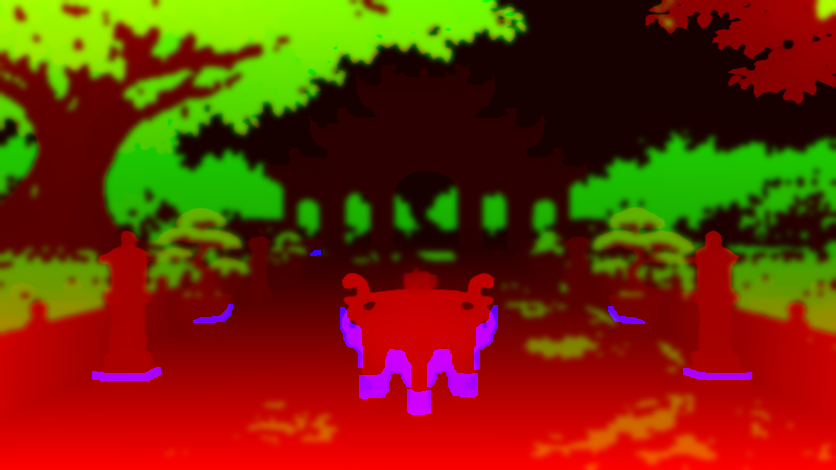
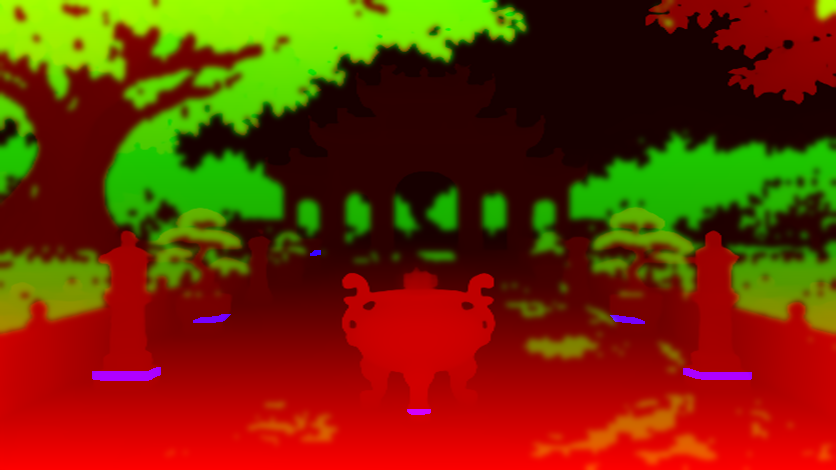
Đi lại không vướng sau lư/đèn; biệt danh vui cho Phật tử ảo; mặt sau hiện tên, người đi lại, niệm Phật
- Mặt nạ chặn (kênh B của assets/sau/*.png) chỉ còn dấu chân đế của vật, bỏ thân/quai lư và đốm lẻ
- Đi ngang gặp vật thì tự lách lên/xuống; chân lư Cửa điện khớp ảnh
- Tên Phật tử ảo, hàng đầu và người trò chuyện đổi thành biệt danh vui
- Mặt sau vẽ mọi người trong điện (ngồi, đứng, đang đi), thẻ tên, câu niệm Phật bay lên; tốp ra vào điện dày hơn

Claude-Session: https://claude.ai/code/session_0165dYwuGLCeQUJKj4YibH94

diff --git a/chua.js b/chua.js
@@ -40,12 +40,12 @@
       vases: [{ stand: [455, 680], at: [455, 708] }, { stand: [1213, 680], at: [1213, 708] }] },   // hai bình sen trên bàn thờ: chỗ đứng dâng hoa, chỗ cắm
     'cua': { lu: { src: 'assets/ngoai/lu-cua.png', at: [755, 423, 164, 184] }, name: 'Cửa Chánh điện', img: 'assets/ngoai/cua.jpg', hz: 470, k: .6,
       floor: [[222, 941], [1450, 941], [1450, 742], [1085, 522], [600, 522], [222, 742]],
-      block: [[425, 560, 515, 640], [1157, 560, 1250, 640], [600, 505, 645, 552], [1030, 505, 1070, 552], [675, 490, 700, 515], [975, 490, 1000, 515], [238, 560, 425, 835], [1245, 560, 1440, 835], [762, 566, 910, 616]],
+      block: [[425, 560, 515, 640], [1157, 560, 1250, 640], [600, 505, 645, 552], [1030, 505, 1070, 552], [675, 490, 700, 515], [975, 490, 1000, 515], [238, 560, 425, 835], [1245, 560, 1440, 835], [772, 586, 900, 612]],
       exits: [[[560, 500, 1110, 532], 'san', [836, 905], 'up'], [[222, 932, 1450, 941], 'hall', [845, 575], 'down']],
       urn: { stand: [836, 640], face: 'up', plant: [836, 462], len: 26 } },
     'cua-hong': { lu: { src: 'assets/ngoai/lu-cua.png', at: [755, 423, 164, 184] }, name: 'Thềm Chánh điện', img: 'assets/ngoai/cua-hong.jpg', hz: 470, k: .6,
       floor: [[222, 941], [1450, 941], [1450, 742], [1085, 522], [600, 522], [222, 742]],
-      block: [[425, 560, 515, 640], [1157, 560, 1250, 640], [600, 505, 645, 552], [1030, 505, 1070, 552], [675, 490, 700, 515], [975, 490, 1000, 515], [238, 560, 425, 835], [1245, 560, 1440, 835], [762, 566, 910, 616]],
+      block: [[425, 560, 515, 640], [1157, 560, 1250, 640], [600, 505, 645, 552], [1030, 505, 1070, 552], [675, 490, 700, 515], [975, 490, 1000, 515], [238, 560, 425, 835], [1245, 560, 1440, 835], [772, 586, 900, 612]],
       exits: [[[560, 500, 1110, 532], 'san', [836, 905], 'up'], [[222, 932, 1450, 941], 'hall', [205, 680], 'right']],
       urn: { stand: [836, 640], face: 'up', plant: [836, 462], len: 26 } },
     'san': { lu: { src: 'assets/ngoai/lu-san.png', at: [682, 512, 307, 337] }, name: 'Sân chùa', img: 'assets/ngoai/san.jpg', hz: 470, k: .6,
@@ -97,23 +97,27 @@
   const carpetX = y => { const t = (y - 548) / (790 - 548); return [790 + (675 - 790) * t, 882 + (997 - 882) * t]; };
   const LANE = 748;                                                       // lối đi ngang trước hàng ghế đầu, sát bàn thờ
   const NAMES = {};                                                       // tên cố định cho hàng ghế đầu (điện 1)
-  const FRONT_NAMES = [['Liên Hoa', 'nu'], ['An Nhiên', 'nu'], ['Quang Huy', 'nam'], ['Từ Hạnh', 'nu'], ['Minh Tâm', 'nu'], ['Nhật Minh', 'nam']];
-  // tên cho mọi Phật tử ảo (không trùng trong cùng một điện)
+  const FRONT_NAMES = [['Chị Ba Xôi Gấc', 'nu'], ['Ni Cô Trà Sữa', 'nu'], ['Anh Ba Khó Ngủ', 'nam'], ['Bà Tám Chánh Niệm', 'nu'], ['Cô Út Hiền Khô', 'nu'], ['Chú Tư Xe Ôm', 'nam']];
+  // biệt danh vui, độc lạ cho mọi Phật tử ảo (không trùng trong cùng một điện)
   const TEN = {
-    nu: ['Diệu Hạnh', 'Tâm An', 'Thanh Tịnh', 'Diệu Âm', 'Ngọc Liên', 'Huệ Chi', 'Bảo Châu', 'Thiện Mỹ', 'Diệu Thảo', 'Phương Thảo', 'Ngọc Hân',
-         'Minh Châu', 'Thu Hằng', 'Lan Anh', 'Bích Ngọc', 'Mai Hương', 'Kim Liên', 'Diệu Tâm', 'Như Ý', 'Hạnh Nguyên', 'Tuệ Lâm', 'Thảo Vy',
-         'Hồng Nhung', 'Thùy Dương', 'Ánh Tuyết', 'Diệu Liên', 'Tịnh Nghiêm', 'Quế Chi', 'Ngọc Trâm', 'Thanh Hương', 'Bảo Ngọc', 'Hải Yến',
-         'Kim Oanh', 'Thu Trang', 'Mỹ Duyên', 'Ngọc Diệp', 'Tường Vi', 'Khánh Linh', 'Diệu Nhàn', 'Thiện Hoa'],
-    nam: ['Thiện Tâm', 'Minh Đức', 'Trí Tuệ', 'Phúc Lâm', 'Thanh Sơn', 'Đức Hải', 'Minh Quang', 'Hải Đăng', 'Văn Tín', 'Hoàng Nam', 'Gia Bảo',
-          'Tuấn Kiệt', 'Bảo Long', 'Trung Hiếu', 'Quốc Khánh', 'Đình Phong', 'Thành Công', 'Minh Khang', 'Hữu Phước', 'Chánh Niệm', 'Tâm Đức',
-          'Văn Hòa', 'Đăng Khoa', 'Thiện Phúc', 'Quang Minh', 'Trí Dũng', 'Hữu Nghĩa', 'Nhật Quang', 'Tâm Thiện', 'Phước Sang']
+    nu: ['Cô Tấm Hiện Đại', 'Mơ Ngủ Nướng', 'Bé Mít Ướt', 'Chị Hai Bánh Bèo', 'Cô Ba Đậu Hũ', 'Dì Năm Chè Đậu', 'Hoa Hậu Chùa Làng', 'Chị Đẹp Niệm Phật',
+         'Bé Na Lém Lỉnh', 'Cô Nàng Thiền Định', 'Cô Ba Sài Gòn', 'Chị Tư Bánh Ít', 'Mẹ Bỉm Tu Tại Gia', 'Cô Chín Nhang Thơm', 'Bé Bơ Tu Hú',
+         'Chị Sáu Bông Sen', 'Thỏ Ngọc Ăn Chay', 'Cô Bảy Mứt Gừng', 'Nữ Hoàng Lạy Phật', 'Chị Ba Cà Phê Sữa', 'Cô Sáu Chuỗi Hạt', 'Bé Su Kem',
+         'Cô Mây Lang Thang', 'Thích Chụp Ảnh', 'Thích Trà Đá', 'Thích Ngủ Trưa', 'Thích Hoa Sen', 'Bà Ngoại Siêng Năng', 'Chị Bông Bí',
+         'Cô Hai Bún Riêu', 'Bé Mận Hậu', 'Dì Tư Nhiều Chuyện', 'Cô Ba Mắm Ruốc', 'Chị Cả Đảm Đang', 'Cô Bé Quàng Khăn Lam', 'Thím Sáu Bánh Xèo',
+         'Mợ Hai Hay Cười', 'Cô Năm Bánh Tét', 'Bé Hạt Tiêu', 'Chị Tơ Hồng'],
+    nam: ['Thích Ngồi Thiền', 'Thích Bánh Chưng', 'Anh Hai Hiền Lành', 'Ông Sáu Râu Bạc', 'Thích Đi Lễ Sớm', 'Bác Bảy Nhang Vòng', 'Cậu Út Ham Ăn',
+          'Thích Uống Trà', 'Anh Tư Lúa Mới', 'Chú Mười Chuông Đồng', 'Thích Câu Cá', 'Anh Tèo Chánh Niệm', 'Thích Ăn Xôi', 'Chú Bé Đánh Trống',
+          'Anh Ba Đậu Phộng', 'Thích Nghe Kinh', 'Ông Tám Mõ Gỗ', 'Thích Ngủ Gật', 'Thợ Hồ Tu Tâm', 'Cậu Ba Lúa Non', 'Thích Đạp Xe',
+          'Anh Hai Bánh Mì', 'Chú Năm Bồ Đề', 'Ông Bụt Mini', 'Hiền Như Bụt', 'Tèo Em Niệm Phật', 'Bác Ba Phi', 'Chú Tễu Vui Vẻ',
+          'Anh Cả Bánh Đa', 'Cậu Vàng Ăn Chay', 'Ông Năm Cờ Tướng', 'Chú Lùn Tốt Bụng', 'Anh Bảy Xe Lôi', 'Cậu Hai Ốc Luộc']
   };
   function nameFor(sheet) {
     const used = new Set(people.map(p => p.name));
     const free = TEN[sheet].filter(n => !used.has(n));
     if (free.length) return pick(free);
-    const A = TEN[sheet].map(n => n.split(' ')[0]), B = TEN[sheet].map(n => n.split(' ')[1]);
-    for (let k = 0; k < 400; k++) { const n = pick(A) + ' ' + pick(B); if (!used.has(n) && n.split(' ')[0] !== n.split(' ')[1]) return n; }
+    const A = TEN[sheet].map(n => n.split(' ').slice(0, 2).join(' ')), B = TEN[sheet].map(n => n.split(' ').slice(2).join(' ')).filter(Boolean);
+    for (let k = 0; k < 400; k++) { const n = pick(A) + ' ' + pick(B); if (!used.has(n)) return n; }
     for (let i = 2; ; i++) { const n = pick(TEN[sheet]) + ' ' + i; if (!used.has(n)) return n; }
   }
   const SEATS = [];
@@ -598,7 +602,17 @@
       }
       if (walkable(nx, ny)) { me.fx = nx; me.fy = ny; }
       else if (walkable(nx, me.fy) && Math.abs(input.x) > .3) me.fx = nx;
-      else if (walkable(me.fx, ny)) me.fy = ny;
+      else if (Math.abs(input.x) > Math.abs(input.y) && (() => {          // đi ngang mà vướng: lách lên/xuống theo phía gần nhất còn lối ngang
+        for (let d = 6; d <= 140; d += 6) for (const s of [-1, 1]) {
+          const y2 = me.fy + s * d;
+          if (!walkable(nx, y2)) continue;
+          const ys = me.fy + s * Math.min(d, v);
+          if (walkable(me.fx, ys)) { me.fy = ys; return true; }
+          if (walkable(nx, ys)) { me.fx = nx; me.fy = ys; return true; }
+        }
+        return false;
+      })()) { /* đã lách */ }
+      else if (walkable(me.fx, ny) && ny !== me.fy) me.fy = ny;
       else {                                                                // vướng lư hương, đèn đá, mép sân…: tự lách sang bên gần nhất còn lối đi
         const dy = ny - me.fy, look = Math.sign(dy) * 70;                 // dò trước ~70px theo hướng đang đi: phải thông suốt cả đoạn
         const ok = (x, y) => walkable(x, y) || R().exits.some(e => inRect(x, y, e[0])) || y < Math.min(...R().floor.map(p => p[1])) + 6 || y > H;   // lối ra / quá mép sân cũng tính là thông
@@ -667,7 +681,7 @@
       if (room === 'hall' || true) {
         nextBow -= dt;
         if (nextBow <= 0) { nextBow = rnd(.8, 2.6); const p = pick(people); if (p && !p.me && p.room === 'hall') bowOnce(p, rnd(700, 1400)); }
-        nextGroup -= dt; if (nextGroup <= 0) { nextGroup = rnd(20, 75); tripGroup(); }
+        nextGroup -= dt; if (nextGroup <= 0) { nextGroup = rnd(9, 26); tripGroup(); }
         nextTrip -= dt;
         if (nextTrip <= 0) {
           nextTrip = rnd(3, 7);
@@ -760,6 +774,7 @@
     drive(x, y) { input = { x, y }; },
     me: () => ({ x: me.fx, y: me.fy, standing: me.mode !== 'seat', room }),
     room: () => room, roomName: () => R().name,
+    canWalk: (x, y) => walkable(x, y),
     exits: () => { const seen = new Set(); return (R().exits || []).filter(e => !e[1].startsWith('soon:') && !seen.has(e[1]) && seen.add(e[1]))
       .map(([r, to, at, face]) => ({ to, at, face, name: ROOMS[to].name, side: r[3] - r[1] > r[2] - r[0] ? (r[0] + r[2] < W ? 'left' : 'right') : r[1] > H - 40 ? 'down' : 'up' })); },
     abbotEnter, abbotLeave,
@@ -772,6 +787,13 @@
     abbotHere: () => !!abbot && room === 'hall',
     // cho cảnh mặt sau: những người đang ngồi trong chánh điện (chỗ ngồi, áo, hướng)
     seated: () => people.filter(p => p.room === 'hall' && p.mode === 'seat' && (p.seat || p.abbot)).map(p => { const s = p.abbot ? ABBOT_SEAT : p.seat; return { x: s.x, y: s.y, sheet: p.sheet, flip: p.flip, me: !!p.me, abbot: !!p.abbot, name: p.name, bow: p.frame === F.prostrate ? 1 : p.frame === F.sitBow ? .4 : 0 }; }),
+    // cho cảnh mặt sau: mọi người đang ở trong chánh điện (ngồi, đứng, đang đi), kèm tên và hướng đi
+    hallPeople: () => people.filter(p => p.room === 'hall' && (p.mode !== 'seat' || p.seat || p.abbot)).map(p => {
+      const sit = p.mode === 'seat', s = sit ? (p.abbot ? ABBOT_SEAT : p.seat) : null;
+      return { id: p.id, x: s ? s.x : p.fx, y: s ? s.y : p.fy, sit, walk: p.mode === 'walk', dir: p.dir, walkT: p.walkT, sheet: p.sheet, flip: p.flip,
+        me: !!p.me, abbot: !!p.abbot, real: !!p.real, name: p.name,
+        bow: p.frame === F.prostrate ? 1 : p.frame === F.sitBow || p.frame === F.standBow ? .4 : 0 };
+    }),
     sheets: () => SHEETS,
     async layPhat(times = 3) {
       // chỉ người bấm lạy; mỗi Phật tử khác tự lạy theo nhịp riêng của mình

diff --git a/matsau.js b/matsau.js
@@ -53,27 +53,61 @@
     g.globalCompositeOperation = 'source-atop'; g.fillStyle = 'rgba(255,170,80,.16)'; g.fillRect(0, 0, c.width, c.height);
     warm.set(S.img, c); return c;
   }
-  let meTag = null;
+  // khung hình theo hướng nhìn từ cửa vào: đi về phía cửa (xuống ở mặt trước) thì quay mặt ra máy quay; trái/phải đảo chiều
+  const FR = { down: 0, up: 4, left: 12, right: 8 };
+  const tags = [];
   function drawPerson(S, p, t, i) {
     if (!S || !S.img) return;
     const { x, y } = place(p), h = K * (y - HZ) * (p.abbot ? 1.4 : 1), s = h / S.stand;
-    const f = BACK_SIT, col = f % 4, row = (f / 4) | 0, dw = S.cw * s, dh = S.ch * s;
-    const k = t - bowT, b = p.me ? (k > 0 && k < 6 ? Math.max(0, Math.sin(k / 2 * Math.PI)) : 0) : p.bow || 0;   // ai lạy người nấy
+    if (y > H + h * .2) return;                                          // đã ra khỏi cửa
+    let f = BACK_SIT, flip = p.flip;
+    if (!p.sit) { f = p.walk ? FR[p.dir] + ((p.walkT * 8) | 0) % 4 : FR.up; flip = false; }
+    const col = f % 4, row = (f / 4) | 0, dw = S.cw * s, dh = S.ch * s;
+    const k = t - bowT, b = p.me && k > 0 && k < 6 ? Math.max(0, Math.sin(k / 2 * Math.PI)) : p.bow || 0;   // ai lạy người nấy
     ctx.save(); ctx.translate(x, y);
     ctx.fillStyle = 'rgba(30,14,6,.30)'; ctx.beginPath(); ctx.ellipse(0, -h * .02, h * .34, h * .07, 0, 0, 7); ctx.fill();
-    if (p.flip) ctx.scale(-1, 1);
-    ctx.scale(1, (1 - .34 * b) * (1 + Math.sin(t * 1.3 + i) * .006));
+    if (flip) ctx.scale(-1, 1);
+    ctx.scale(1, (1 - .34 * b) * (p.sit ? 1 + Math.sin(t * 1.3 + i) * .006 : 1));
     ctx.drawImage(warmed(S), col * S.cw, row * S.ch, S.cw, S.ch, -dw / 2, -dh, dw, dh);
     ctx.restore();
-    if (p.me) meTag = [x, y - h * .78];
+    if (p.name) tags.push({ p, x, y: y - h * (p.sit ? .8 : 1.08) * (1 - .3 * b), h });
+    if (p.sit && !p.me && chant.has(p.id)) chant.get(p.id).at = [x, y - h * .9];
   }
-  function drawTag([x, ty]) {
-    {
-      ctx.font = '700 15px system-ui,sans-serif'; ctx.textAlign = 'center'; ctx.textBaseline = 'middle';
-      const w = ctx.measureText('Bạn').width + 18;
-      ctx.fillStyle = 'rgba(30,110,40,.92)'; ctx.strokeStyle = '#ffe7b0'; ctx.lineWidth = 1.5;
-      ctx.beginPath(); ctx.roundRect(x - w / 2, ty - 12, w, 24, 12); ctx.fill(); ctx.stroke();
-      ctx.fillStyle = '#fff'; ctx.fillText('Bạn', x, ty + 1);
+  // tên trên đầu: người gần đứng trước; tên chồng lên nhau thì giữ tên người gần hơn (Bạn, thầy, người thật luôn hiện)
+  function drawTags() {
+    const rank = g => g.p.me ? 3e4 : g.p.abbot ? 2e4 : g.p.real ? 1e4 : g.y;
+    tags.sort((a, b) => rank(b) - rank(a));
+    const kept = [];
+    ctx.textAlign = 'center'; ctx.textBaseline = 'middle';
+    for (const g of tags) {
+      const fs = Math.max(10, Math.min(17, g.h * .11)), label = g.p.me ? 'Bạn' : g.p.name;
+      ctx.font = `700 ${fs}px system-ui,sans-serif`;
+      const w = ctx.measureText(label).width + fs, hh = fs * 1.5, r = [g.x - w / 2, g.y - hh / 2, g.x + w / 2, g.y + hh / 2];
+      if (rank(g) < 1e4 && kept.some(k => r[0] < k[2] && r[2] > k[0] && r[1] < k[3] && r[3] > k[1])) continue;
+      kept.push(r);
+      ctx.fillStyle = g.p.me ? 'rgba(30,110,40,.92)' : g.p.abbot ? 'rgba(150,60,10,.9)' : g.p.real ? 'rgba(20,70,130,.85)' : 'rgba(25,12,5,.62)';
+      ctx.beginPath(); ctx.roundRect(r[0], r[1], w, hh, hh / 2); ctx.fill();
+      if (g.p.me) { ctx.strokeStyle = '#ffe7b0'; ctx.lineWidth = 1.5; ctx.stroke(); }
+      ctx.fillStyle = '#fff'; ctx.fillText(label, g.x, g.y + 1);
+    }
+    tags.length = 0;
+  }
+  // niệm Phật: thỉnh thoảng một vài người khẽ niệm, câu niệm bay lên rồi tan
+  const chant = new Map(), CAU = ['Nam Mô A Di Đà Phật', 'A Di Đà Phật', 'Nam Mô Bổn Sư Thích Ca Mâu Ni Phật', 'Nam Mô Quán Thế Âm Bồ Tát'];
+  let nextChant = 1, lastT = 0;
+  function drawChant(t, ppl) {
+    nextChant -= Math.min(.2, Math.max(0, t - lastT)); lastT = t;
+    if (nextChant <= 0) {
+      nextChant = .8 + Math.random() * 1.6;
+      const c = ppl.filter(p => p.sit && !p.me && !p.abbot && !chant.has(p.id));
+      if (c.length) { const p = c[Math.random() * c.length | 0]; chant.set(p.id, { t0: t, txt: CAU[Math.random() < .6 ? 0 : Math.random() * CAU.length | 0], at: null }); }
+    }
+    ctx.textAlign = 'center'; ctx.textBaseline = 'middle';
+    for (const [id, c] of chant) {
+      const k = (t - c.t0) / 3.2; if (k >= 1 || !c.at) { if (k >= 1) chant.delete(id); continue; }
+      const a = Math.min(1, k * 4) * (1 - k), [x, y] = c.at;
+      ctx.font = 'italic 600 14px system-ui,sans-serif'; ctx.fillStyle = `rgba(255,226,150,${a})`;
+      ctx.shadowColor = 'rgba(0,0,0,.6)'; ctx.shadowBlur = 4; ctx.fillText(c.txt, x, y - 26 - k * 46); ctx.shadowBlur = 0;
     }
   }
 
@@ -110,9 +144,9 @@
       ctx.fillStyle = '#ffb2d2'; ctx.beginPath(); ctx.ellipse(b.x, b.y - s * .15, s * .38, s * .9, 0, 0, 7); ctx.fill(); });
     // đại chúng ngồi quay lưng (xa vẽ trước)
     const S = window.Nguoi && Nguoi.sheets ? Nguoi.sheets() : null;
-    const ppl = window.Nguoi && Nguoi.seated ? Nguoi.seated() : [];
+    const ppl = window.Nguoi && Nguoi.hallPeople ? Nguoi.hallPeople() : window.Nguoi && Nguoi.seated ? Nguoi.seated().map(p => ({ ...p, sit: true })) : [];
     if (S) ppl.map(p => ({ p, y: place(p).y })).sort((a, b) => a.y - b.y).forEach(({ p }, i) => drawPerson(S[p.sheet], p, t, i));
-    if (meTag) { drawTag(meTag); meTag = null; }
+    drawTags(); drawChant(t, ppl);
     ctx.setTransform(1, 0, 0, 1, 0, 0);
   }
 

diff --git a/app.js b/app.js
@@ -92,7 +92,7 @@
     if (broadcast && chat.bc) chat.bc.postMessage({ key: k, who: m.who, text: m.text });
   }
   if (chat.bc) chat.bc.onmessage = e => chatAdd({ ...e.data, me: false }, false);
-  const BOT = ['Minh Tâm', 'Quang Huy', 'Liên Hoa', 'An Nhiên', 'Từ Hạnh', 'Nhật Minh', 'Diệu Âm', 'Thiện Tâm'];
+  const BOT = ['Chị Ba Xôi Gấc', 'Anh Ba Khó Ngủ', 'Ni Cô Trà Sữa', 'Bà Tám Chánh Niệm', 'Cô Út Hiền Khô', 'Chú Tư Xe Ôm', 'Thích Ngồi Thiền', 'Bé Su Kem'];
   const BOT_SAY = ['A Di Đà Phật 🙏', 'Chúc đạo hữu một ngày an lạc', 'Hôm nay chùa thanh tịnh quá', 'Nam Mô Bổn Sư Thích Ca Mâu Ni Phật',
     'Mọi người cùng niệm Phật nhé', 'Hương trầm thơm quá', 'Tùy hỷ công đức đạo hữu 🙏', 'Nguyện cho tất cả chúng sinh được bình an'];
   const pick = a => a[Math.random() * a.length | 0];
